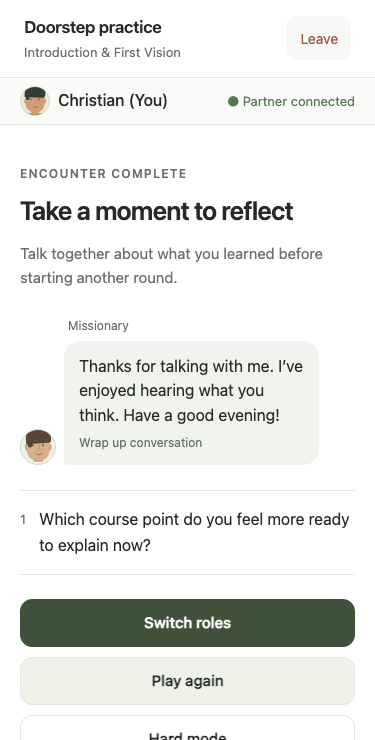
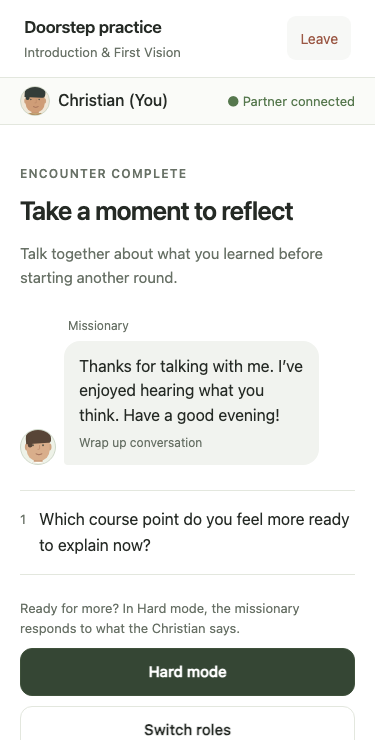
optimization

Changed region(s): [[0.0293, 0.8081, 0.968, 1.0]]

diff --git a/src/components/conversation/CompletionScreen.tsx b/src/components/conversation/CompletionScreen.tsx
@@ -1,4 +1,4 @@
-import { useEffect, useRef, useState } from 'react'
+import { useEffect, useId, useRef, useState } from 'react'
 import type { ConversationContent } from '../../lib/conversation'
 import { prefersReducedMotion } from '../../lib/motion'
 import type { SessionSnapshot } from '../../sessions/types'
@@ -32,6 +32,7 @@ export function CompletionScreen({ content, snapshot, playOutro, paused, canAct,
   const [outroDone, setOutroDone] = useState(!playOutro)
   const elapsed = useRef(0)
   const headingRef = useRef<HTMLHeadingElement>(null)
+  const hardModeNoteId = useId()
 
   useEffect(() => {
     if (outroDone || paused) return
@@ -86,17 +87,22 @@ export function CompletionScreen({ content, snapshot, playOutro, paused, canAct,
         ))}
       </ol>
       <div className={styles.completionActions}>
-        <Button disabled={!canAct} onClick={() => onSessionRequest('swap')}>
+        {content.hardMode ? (
+          <>
+            <p id={hardModeNoteId} className={styles.hardModeNote}>
+              Ready for more? In Hard mode, the missionary responds to what the Christian says.
+            </p>
+            <Button disabled={!canAct} aria-describedby={hardModeNoteId} onClick={() => onSessionRequest('hardMode')}>
+              Hard mode
+            </Button>
+          </>
+        ) : null}
+        <Button variant={content.hardMode ? 'secondary' : 'primary'} disabled={!canAct} onClick={() => onSessionRequest('swap')}>
           Switch roles
         </Button>
         <Button variant="secondary" disabled={!canAct} onClick={() => onSessionRequest('restart')}>
           Play again
         </Button>
-        {content.hardMode ? (
-          <Button variant="secondary" disabled={!canAct} onClick={() => onSessionRequest('hardMode')}>
-            Hard mode
-          </Button>
-        ) : null}
         <button type="button" className={styles.quiet} onClick={onLeave}>
           Leave session
         </button>

diff --git a/src/components/conversation/conversation.module.css b/src/components/conversation/conversation.module.css
@@ -1885,6 +1885,13 @@ a.helpDetailAction {
   margin-top: 24px;
 }
 
+.hardModeNote {
+  margin: 0;
+  font-size: var(--text-small);
+  line-height: 1.5;
+  color: var(--color-muted);
+}
+
 /* Narrow phones */
 
 @media (max-width: 420px) {
